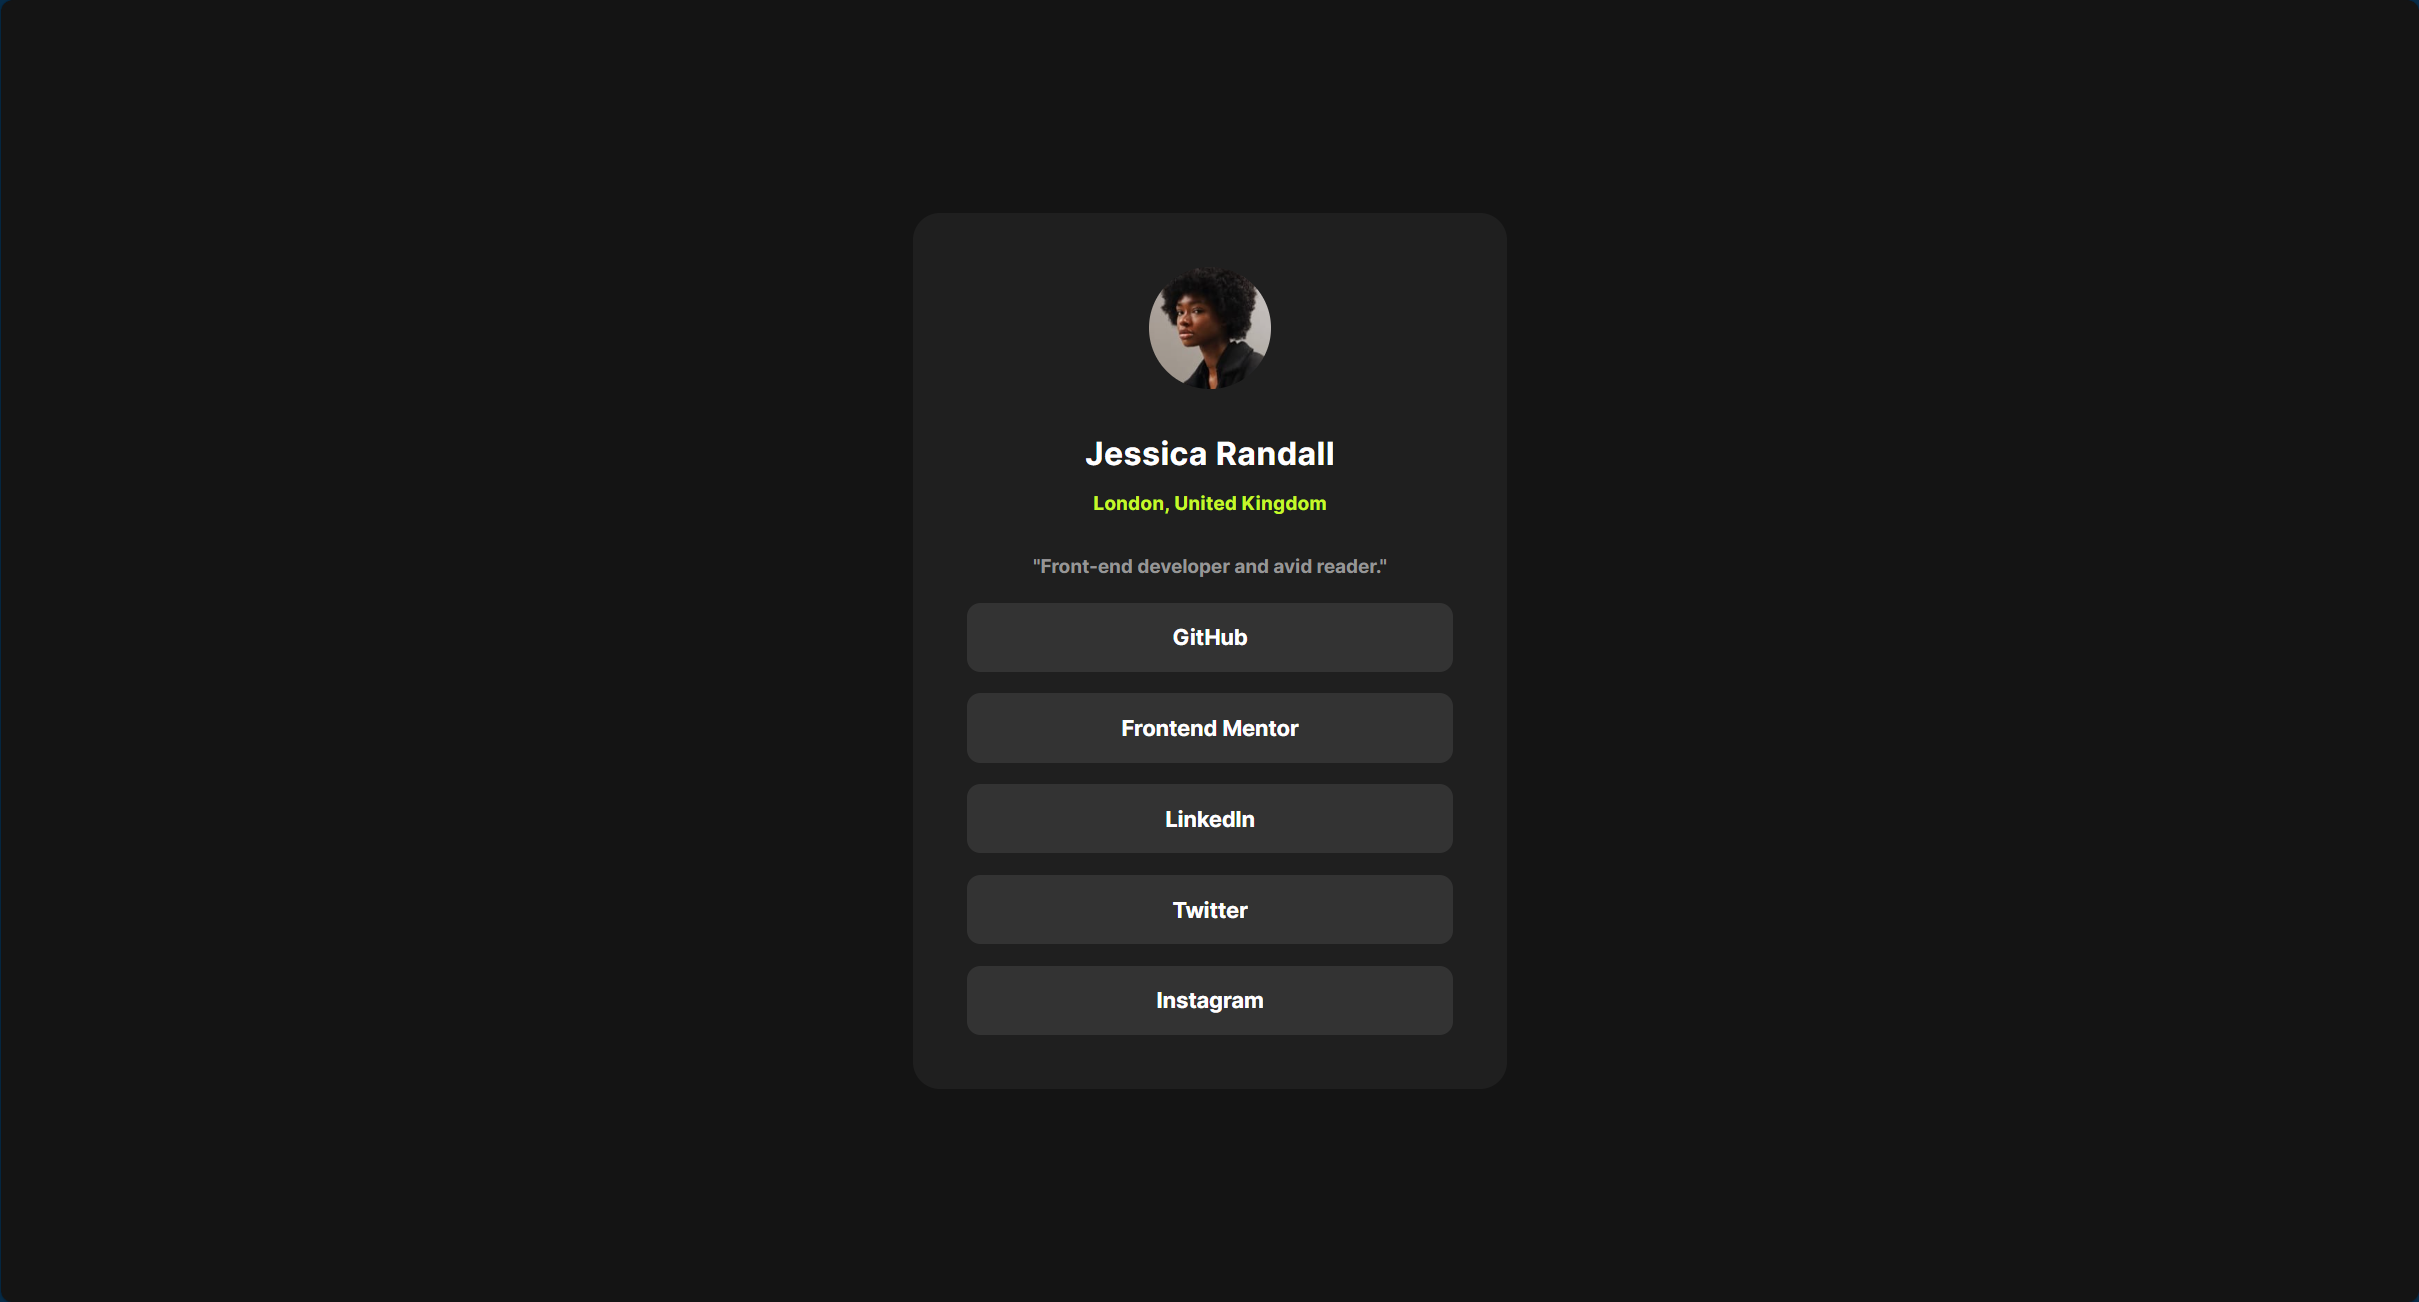
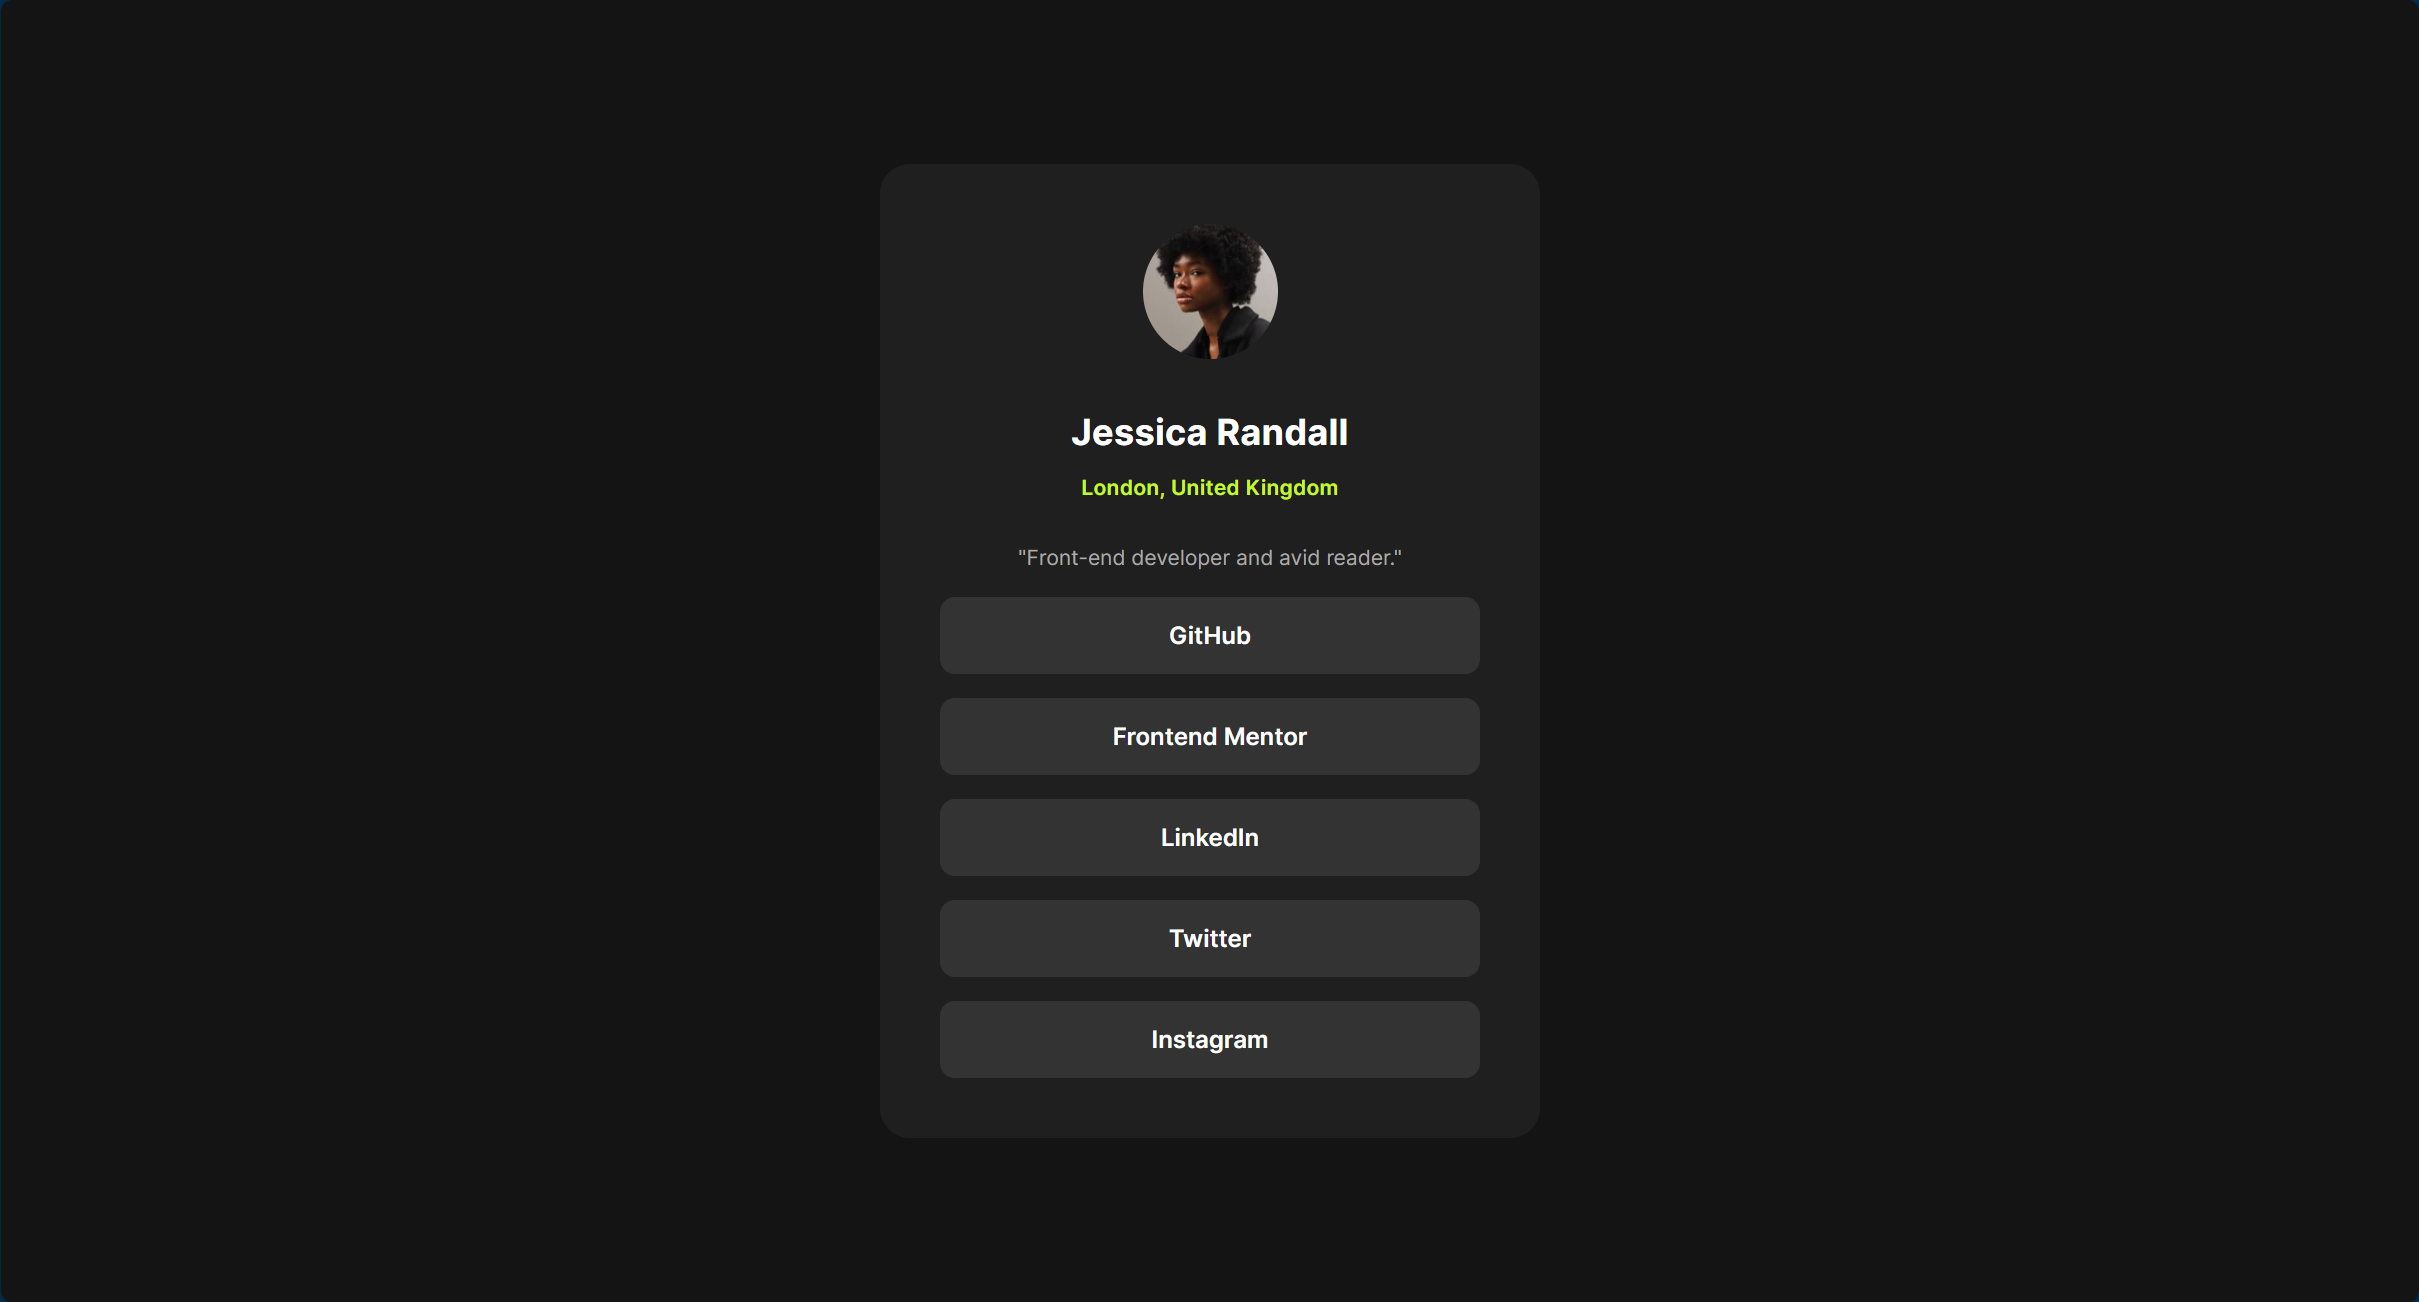
update

diff --git a/style.css b/style.css
@@ -1,3 +1,23 @@
+@font-face {
+  font-family: 'Inter';
+  src: url('./assets/fonts/static/Inter-Regular.ttf') format('truetype');
+  font-weight: 400;
+  font-style: normal;
+}
+
+@font-face {
+  font-family: 'Inter';
+  src: url('./assets/fonts/static/Inter-SemiBold.ttf') format('truetype');
+  font-weight: 600;
+  font-style: normal;
+}
+
+@font-face {
+  font-family: 'Inter';
+  src: url('./assets/fonts/static/Inter-Bold.ttf') format('truetype');
+  font-weight: 700;
+  font-style: normal;
+}
 *,
 *::before,
 *::after {
@@ -39,20 +59,20 @@ body {
 }
 .name-address h1{
   color: hsl(0, 0%, 100%);
-  font-weight: 400;
+  font-weight: 700;
   font-size: 24px;
   letter-spacing: 0.2px;
 }
 .name-address p{
   color: hsl(75, 94%, 57%);
-  font-weight: 400;
+  font-weight: 600;
   font-size: 14px;
   letter-spacing: 0.2px;
 }
 .description{
-  color: #969696;
+  color: #AAAAAA;
   font-size: 14px;
-  font-weight: 300;
+  font-weight: 400;
 }
 
 .social-links {
@@ -75,6 +95,6 @@ body {
   /* 移除默认下划线 */
   text-decoration: none;
   text-align: center;
-  font-weight: 300;
+  font-weight: 600;
   font-size: 16px;
 }
